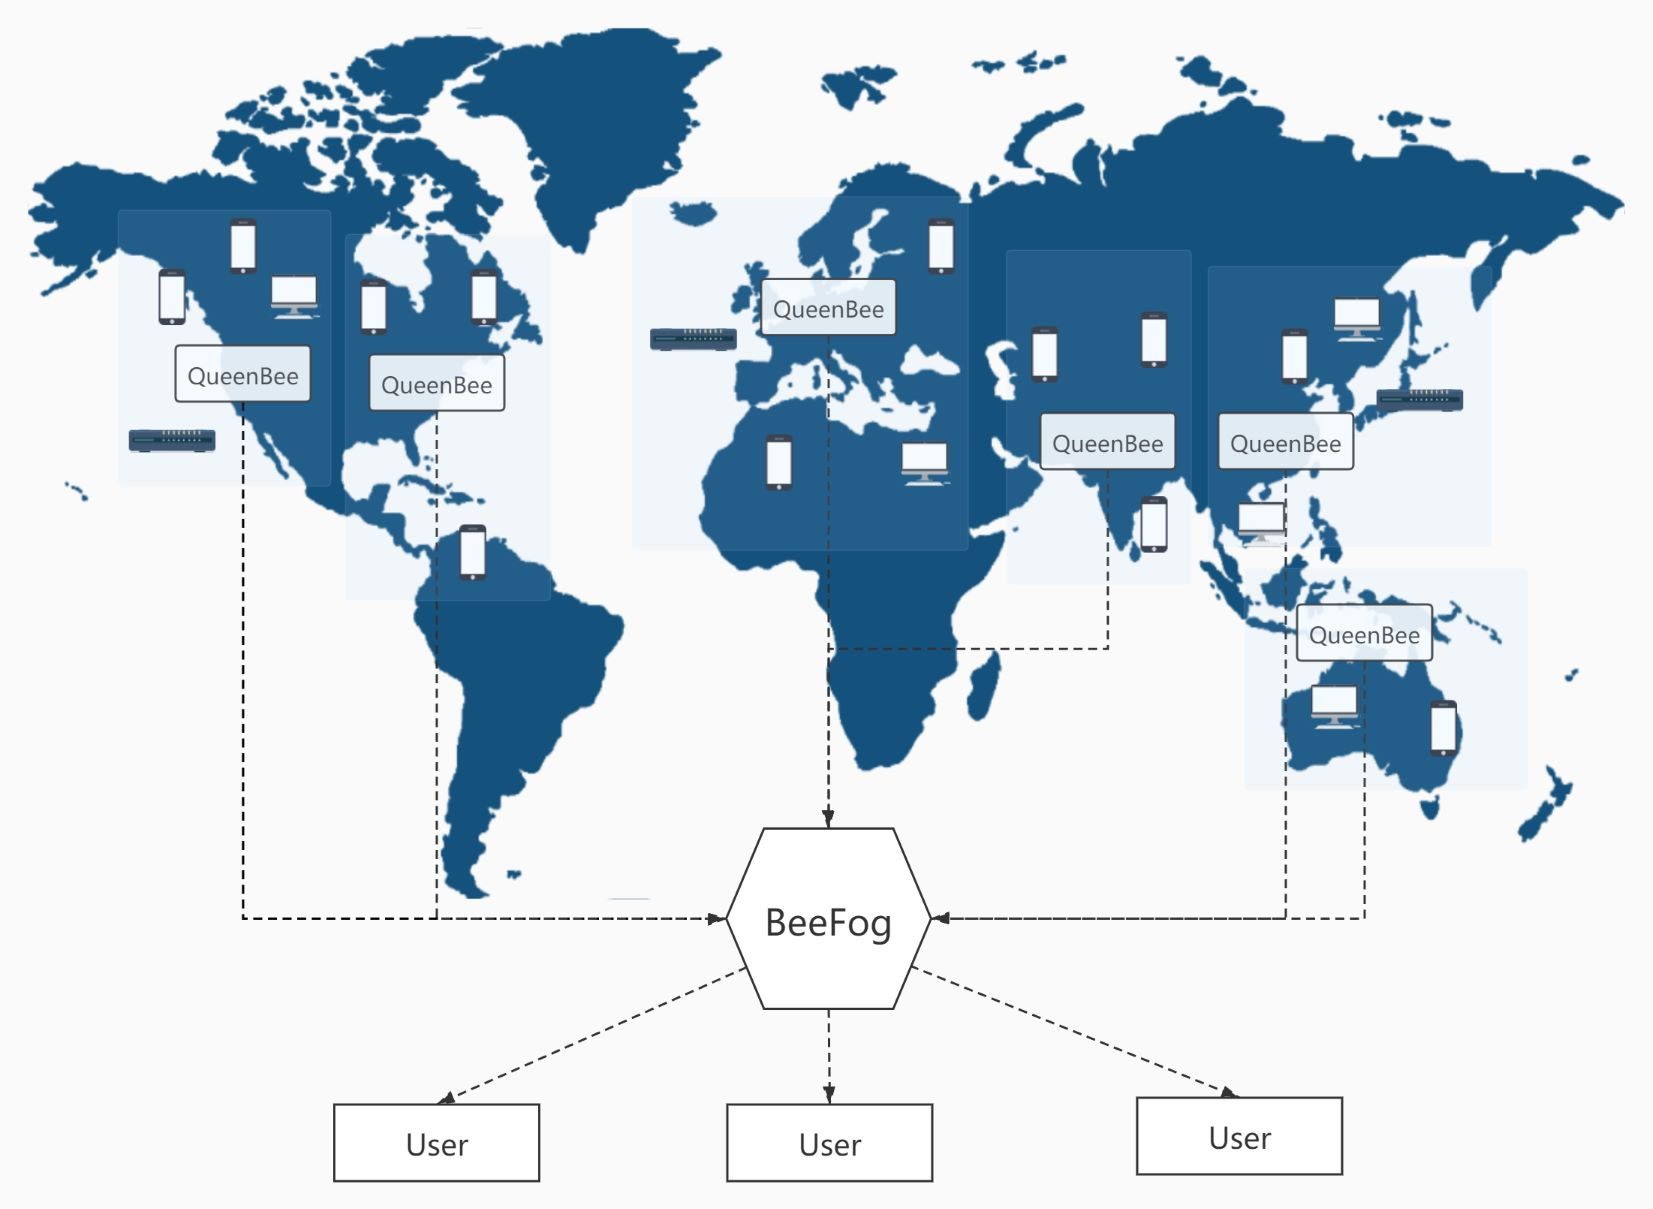
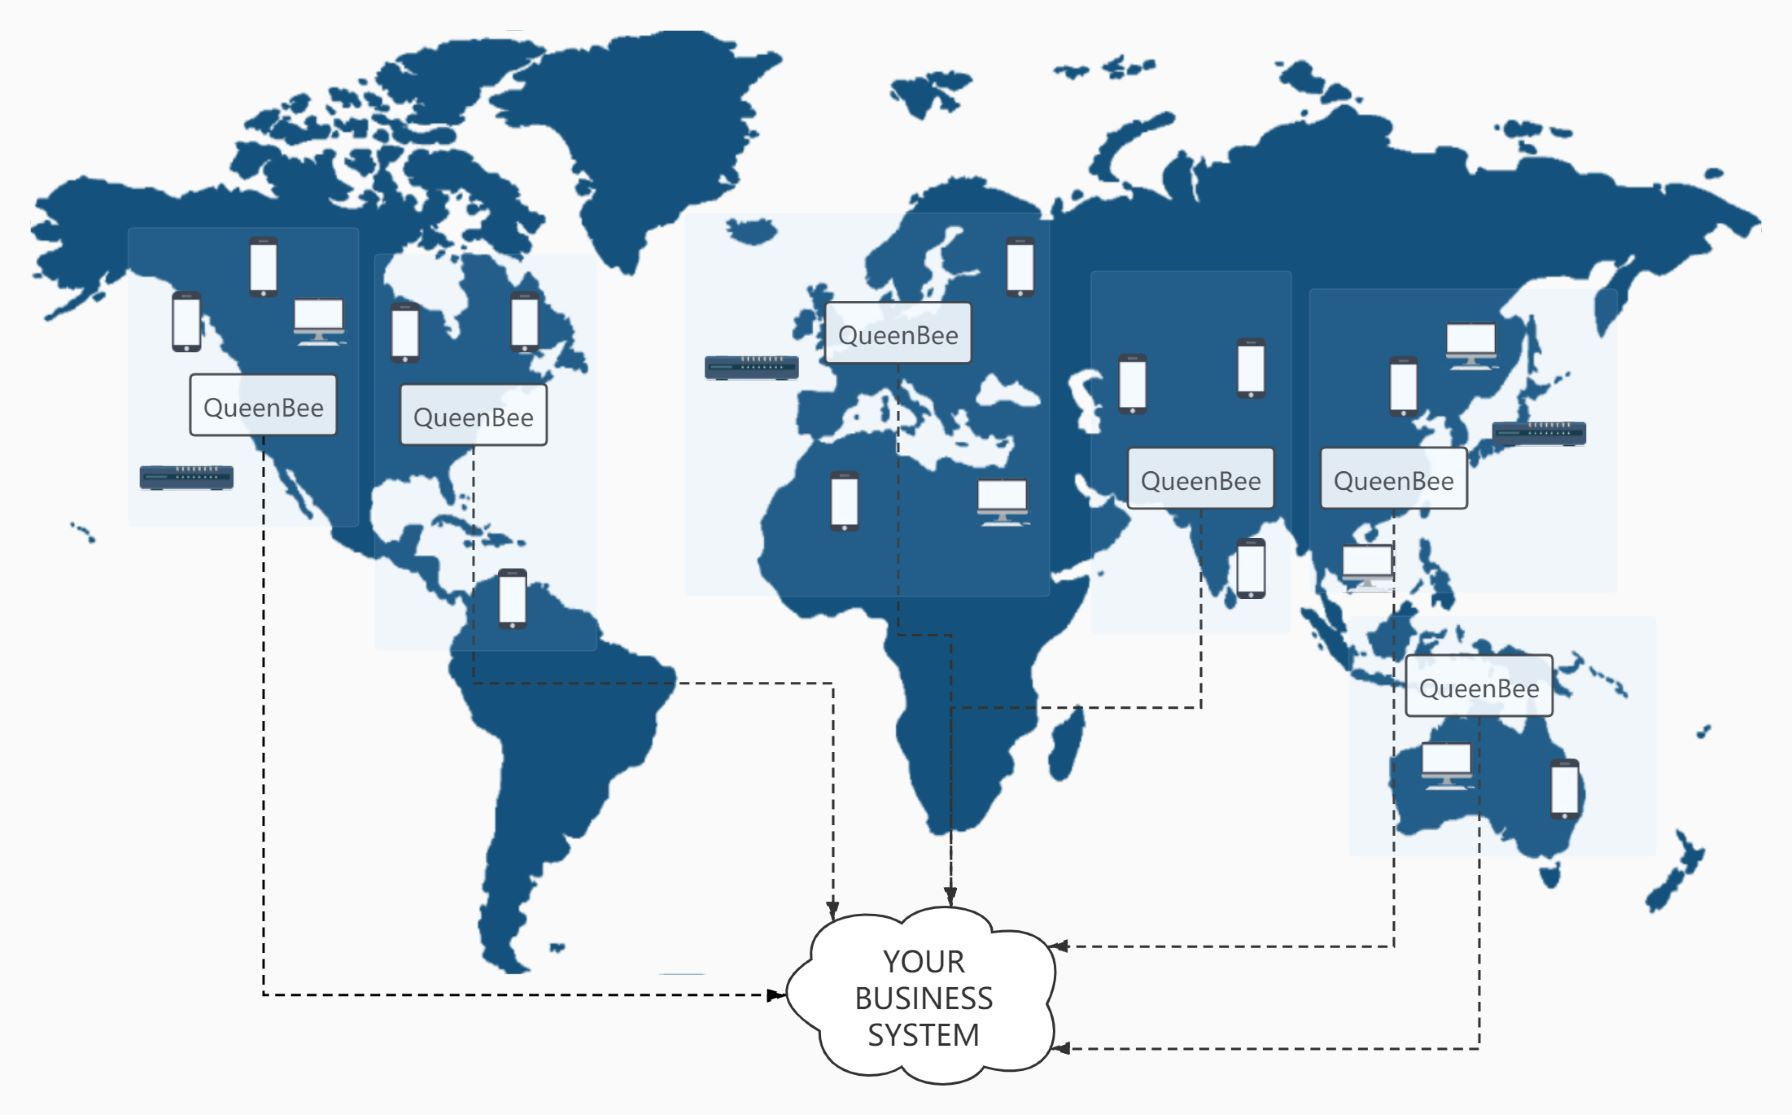
update overview

diff --git a/docs/content/zh/docs/1-overview/_index.md b/docs/content/zh/docs/1-overview/_index.md
@@ -5,17 +5,25 @@ description: >
   包含项目的核心概念，运作方式，技术架构。
 ---
 
+## 雾计算是什么？
+雾计算（Fog Computing），是使用**最终用户终端设备**或连接最终用户设备的边缘设备，
+以分布式协作架构进行数据存储（相对于将数据集中存储在云数据中心），
+或进行分布式网络数据包传输通信（相对于透过互联网骨干路由），
+或进行分布式信息处理（相对于在云数据中心集中处理）。
+雾计算是由思科（Cisco）在2014年所提出的概念，为云计算的延伸，这个架构可以将计算需求分层次、分区域处理，以减少对于网络带宽的浪费。
 
 ## BeeFog 是什么？
 
-BeeFog 是一个开源的雾计算框架，如下图所示：
+BeeFog 是一个开源的雾计算框架，侧重于解决雾节点和用户终端设备的连接和计算任务分发。
+BeeFog 的计算任务侧重于网络传输任务和信息处理任务，不会涉及分布式存储。
+在雾节点之上，是您处在云端的业务系统，如下图所示：
 
 **此图待更新**
 
 ![原理示意图](/images/beefog.jpg)
 
-我们把云端服务叫做 `QueenBee` ,主要负责任务调度和分配。把分布式的工作端叫做 `WorkerBee`，主要负责执行计算任务。
-`WorkerBee`会持续主动向`QueenBee`请求任务，如果任务池中有需要执行的任务，就会取回执行。
+我们把一个地区的雾节点叫做 `QueenBee` ,主要负责任务调度和分配。把分布式的工作设备叫做 `WorkerBee`，主要负责执行计算任务。
+`WorkerBee` 会持续主动向 `QueenBee` 请求任务，如果任务池中有需要执行的任务，就会取回执行。
 
 ## 和其他雾计算框架的区别？
 由于雾计算框架现在还没有成熟的开源实现，不在这里一一对比，列举一些我们的特性：
